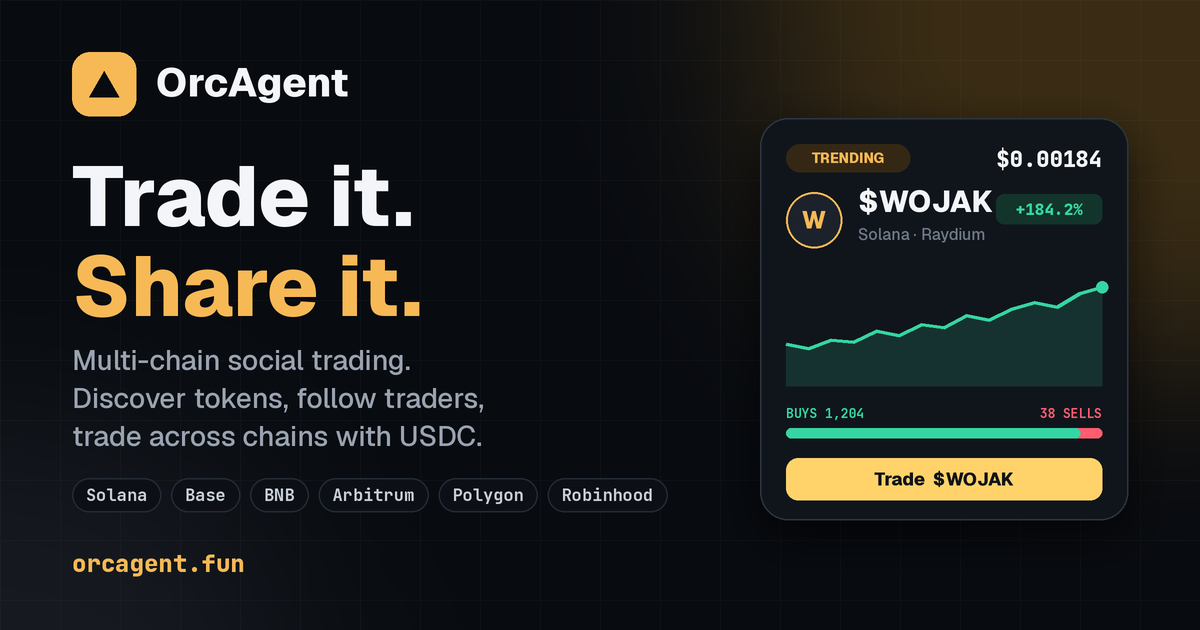
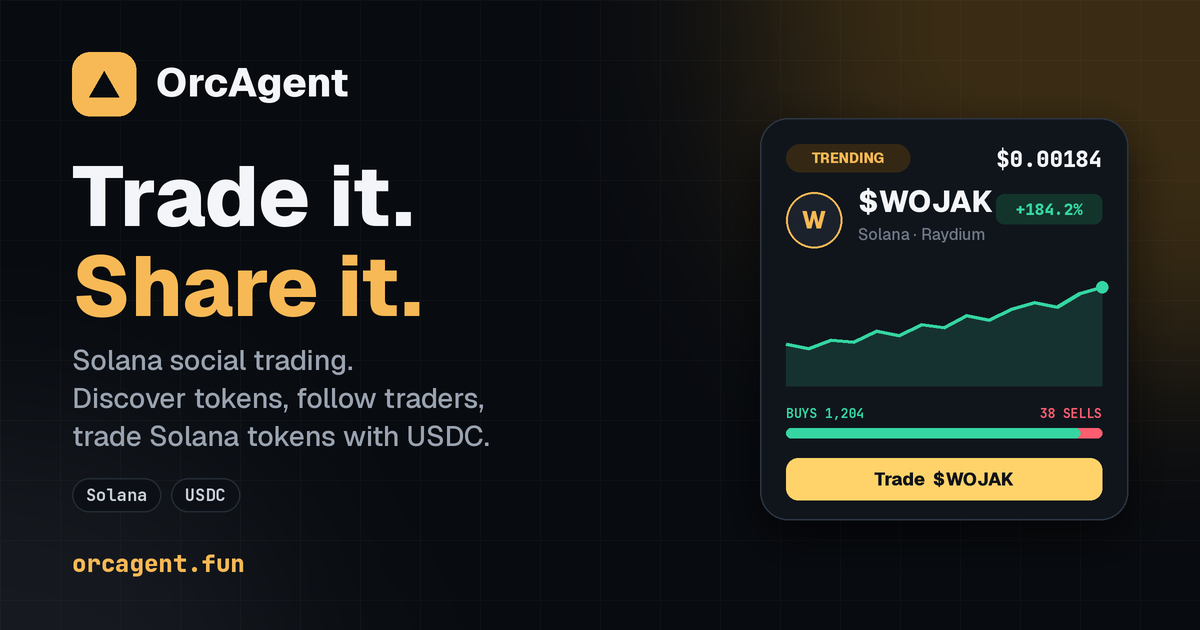
Describe OrcAgent as Solana social trading with USDC

diff --git a/templates/info.html b/templates/info.html
@@ -172,9 +172,10 @@ html,body{min-height:100vh;min-height:100dvh;background:var(--bg);font-family:va
         <h2 class="about-headline">Trade it. Share it.<br>All in one place.</h2>
         <p class="about-lead">OrcAgent is a <strong>Solana social trading platform</strong>
         that brings live markets, automated trading, copy trading, token launches
-        and the social feed into one fast app. Trade with USDC, discover what the
-        community is watching, and keep your portfolio, messages and activity
-        together.</p>
+        and the social feed into one fast app. Buy and sell Solana tokens with USDC on the Solana blockchain.
+        USDC is your trading currency; Solana is the network where trades run.
+        Discover what the community is watching, and keep your portfolio,
+        messages and activity together.</p>
         <div class="about-pills">
           <span class="about-pill"><b>Solana</b> network</span>
           <span class="about-pill"><b>USDC</b> trading</span>

diff --git a/dashboard.html b/dashboard.html
@@ -13,7 +13,7 @@ window.__oaFeedEarly={url:url,data:fetch(url,{credentials:'same-origin'})
 .then(function(r){return r.ok?r.json():null}).catch(function(){return null})}}catch(e){}})();
 </script>
 <meta name="theme-color" content="#0a0b0e">
-<title>OrcAgent — Multi-Chain Social Trading Platform</title>
+<title>OrcAgent — Solana Social Trading with USDC</title>
 <link rel="manifest" href="/app.webmanifest" crossorigin="use-credentials">
 <meta name="apple-mobile-web-app-capable" content="yes">
 <meta name="apple-mobile-web-app-status-bar-style" content="default">

diff --git a/search_seo.py b/search_seo.py
@@ -18,18 +18,18 @@ _BASE_URL = "https://orcagent.fun"
 _LOGO_URL = _BASE_URL + "/static/icon-512.png"
 # The link preview X / Telegram / Discord / WhatsApp show for a page without a
 # preview of its own: 1200x630, rendered by tools/make_og_image.py.
-_SHARE_IMAGE_URL = _BASE_URL + "/static/og-orcagent.png"
-_SHARE_IMAGE_ALT = "OrcAgent — Trade it. Share it. Multi-chain social trading with USDC."
+_SHARE_IMAGE_URL = _BASE_URL + "/static/og-orcagent.png?v=solana-usdc"
+_SHARE_IMAGE_ALT = "OrcAgent — Trade it. Share it. Solana social trading with USDC."
 _X_HANDLE = "@Orcagent"
 
 _PAGE_META = {
     "/": (
-        "OrcAgent — Multi-Chain Social Trading Platform",
-        "Trade smarter together with OrcAgent. Discover live crypto markets, automate strategies, follow traders and share trades across multiple chains.",
+        "OrcAgent — Solana Social Trading with USDC",
+        "Trade smarter together with OrcAgent. Trade Solana tokens with USDC, discover live markets, automate strategies, follow traders and share trades.",
     ),
     "/live-market": (
         "Live Crypto Market & Meme Coin Charts | OrcAgent",
-        "Explore live crypto markets, meme coin charts and real-time token opportunities across the chains supported by OrcAgent.",
+        "Explore live Solana token markets, meme coin charts and real-time opportunities. Buy and sell Solana tokens with USDC on OrcAgent.",
     ),
     "/auto-trading-bot": (
         "Automated Crypto Trading Bot | OrcAgent",
@@ -41,7 +41,7 @@ _PAGE_META = {
     ),
     "/info": (
         "About, Security & Privacy | OrcAgent",
-        "Learn what OrcAgent is, how its multi-chain social trading platform works, how security and privacy are handled, current fees, contact details and terms.",
+        "Learn what OrcAgent is, how its Solana social trading platform uses USDC to buy and sell Solana tokens, how security and privacy are handled, current fees, contact details and terms.",
     ),
 }
 _SITEMAP_PATHS = tuple(_PAGE_META)

diff --git a/share_card_concept_d.py b/share_card_concept_d.py
@@ -161,11 +161,11 @@ def _draw_common(dm, img, symbol, price, pct, mode='CHART', entry_price=None,
     draw.text((736, 278), perf_label, font=_font(dm, True, 15), fill=(211, 217, 224))
     _draw_chart_line(draw, pct)
 
-    # Asset/channel strip, intentionally generic so it is correct across chains.
+    # Asset/channel strip reflects Solana trading with USDC.
     draw.line([(50, 463), (W-50, 463)], fill=(119, 83, 36), width=1)
     draw.ellipse([58, 479, 99, 520], outline=_GOLD2, width=3)
     draw.line([(69, 500), (87, 500)], fill=_GOLD2, width=3)
-    draw.text((121, 485), 'MULTI-CHAIN', font=_font(dm, True, 17), fill=(226, 228, 232))
+    draw.text((121, 485), 'SOLANA · USDC', font=_font(dm, True, 17), fill=(226, 228, 232))
     draw.line([(430, 482), (430, 518)], fill=(105, 107, 112), width=1)
     draw.text((468, 485), 'orcagent.fun', font=_font(dm, False, 18), fill=(226, 228, 232))
 

diff --git a/tools/make_og_image.py b/tools/make_og_image.py
@@ -70,13 +70,13 @@ def main():
 
     # Subline.
     sf = font('Geist-Medium.ttf', 28)
-    for i, line in enumerate(('Multi-chain social trading.', 'Discover tokens, follow traders,', 'trade across chains with USDC.')):
+    for i, line in enumerate(('Solana social trading.', 'Discover tokens, follow traders,', 'trade Solana tokens with USDC.')):
         d.text((s(72), s(370 + i * 38)), line, font=sf, fill=SUB, anchor='ls')
 
     # Chains.
     cf = font('JetBrainsMono-Bold.ttf', 17)
     x = 72
-    for name in ('Solana', 'Base', 'BNB', 'Arbitrum', 'Robinhood'):
+    for name in ('Solana', 'USDC'):
         tw = d.textlength(name, font=cf) / S
         d.rounded_rectangle([s(x), s(478), s(x + tw + 28), s(512)], radius=s(17), outline=LINE, width=s(1.5), fill=(12, 16, 22))
         d.text((s(x + 14 + tw / 2), s(495)), name, font=cf, fill=(201, 207, 216), anchor='mm')

diff --git a/tests/test_search_seo.py b/tests/test_search_seo.py
@@ -37,14 +37,14 @@ def make_app():
     return app
 
 
-def test_source_title_matches_multichain_product_positioning():
-    assert "<title>OrcAgent — Multi-Chain Social Trading Platform</title>" in DASHBOARD_HTML
+def test_source_title_matches_solana_usdc_product_positioning():
+    assert "<title>OrcAgent — Solana Social Trading with USDC</title>" in DASHBOARD_HTML
     assert "Solana Trading Terminal" not in DASHBOARD_HTML
 
 
 def test_home_has_complete_search_metadata():
     body = make_app().test_client().get("/").get_data(as_text=True)
-    assert "OrcAgent — Multi-Chain Social Trading Platform" in body
+    assert "OrcAgent — Solana Social Trading with USDC" in body
     assert '<link rel="canonical" href="https://orcagent.fun/">' in body
     assert 'name="description"' in body
     assert 'application/ld+json' in body
